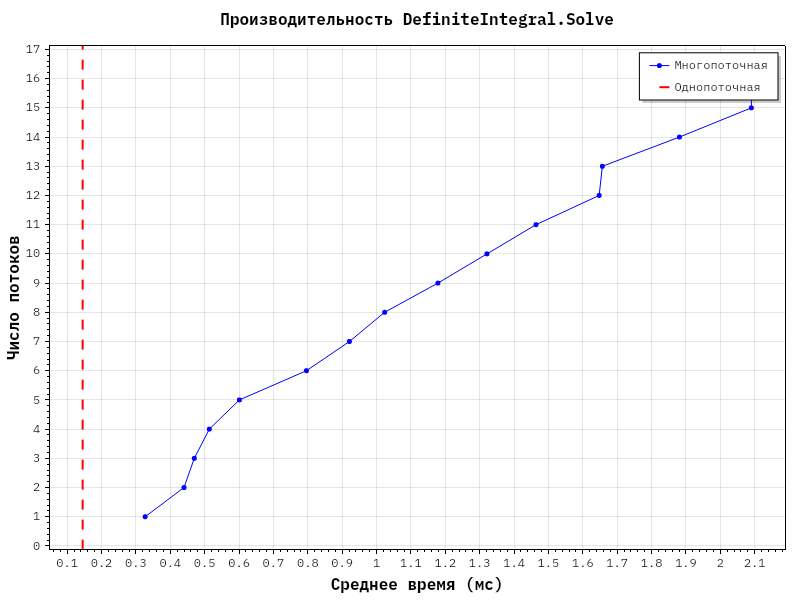
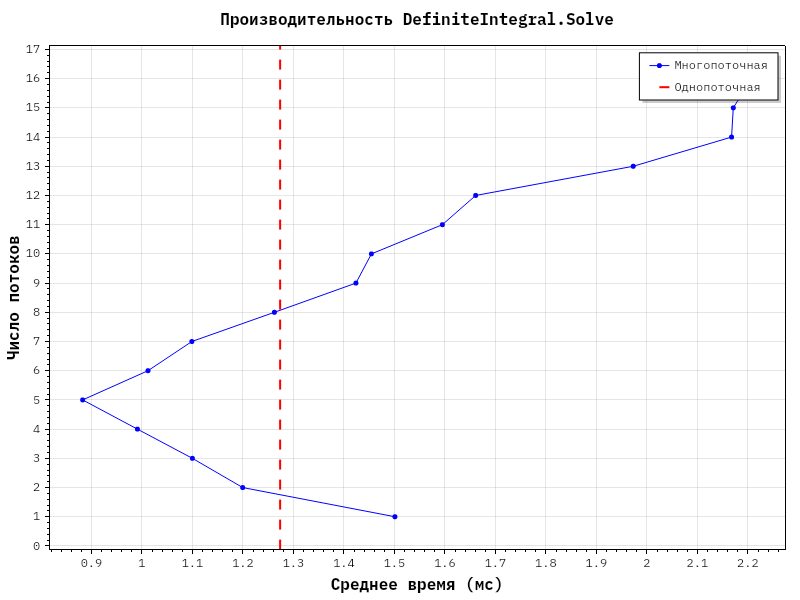
New performance result

diff --git a/PerformanceAnalyzer/Program.cs b/PerformanceAnalyzer/Program.cs
@@ -1,12 +1,9 @@
-using System;
-using task14;
+using task14;
 using System.Diagnostics;
-using System.Linq;
 using ScottPlot;
 
 class Program
 {
-    // Вспомогательный метод для измерения времени выполнения
     static (double timeMs, double result) Measure(Action act, int warmup = 2, int runs = 5)
     {
         for (int i = 0; i < warmup; i++) act();
@@ -20,28 +17,29 @@ class Program
     {
         double a = -100, b = 100;
         Func<double, double> sin = Math.Sin;
-        double exact = 0.0; // интеграл sin(x) на [-100,100] равен 0
+        double exact = 0.0;
 
-        // 1. Определение оптимального шага (наибольший, дающий точность 1e-4)
-        double[] steps = { 1e-1, 1e-2, 1e-3, 1e-4, 1e-5, 1e-6 };
+	//1e-1 был намерен убран из списка. Так как определенный интеграл от синуса на симметричном отрезке
+	//всегда будет равен нулю => любой шаг будет давать отличную точность => программа выберет шаг 1e-1
+	//но он даст всего 2000 отрезков, что слишком мало для честного сравнения многопоточного решения и
+	//однопоточное из-за больших накладных расходов на создание потоков
+        double[] steps = { 1e-2, 1e-3, 1e-4, 1e-5, 1e-6 };
         Console.WriteLine("Шаг        | Время (мс)    | Погрешность");
         double stepOpt = steps[0];
         foreach (var step in steps)
         {
             var (time, res) = Measure(() => DefiniteIntegral.Solve(a, b, sin, step, 1), 2, 5);
-            Console.WriteLine($"{res:F19}"); // Вывод: 3.14
+            Console.WriteLine($"{res:F19}");
             double error = Math.Abs(res - exact);
             Console.WriteLine($"{step,6:E1}   | {time,12:F4}   | {error,12:E2}");
-            // Выбираем первый (самый крупный) шаг, обеспечивающий точность
             if (error <= 1e-4)
             {
                 stepOpt = step;
-                break; // прекращаем перебор, так как идём от крупного к мелкому
+                break;
             }
         }
         Console.WriteLine($"\nВыбран шаг: {stepOpt} (интервалов: {(b - a) / stepOpt:F0})");
 
-        // 2. Подбор оптимального числа потоков
         int maxThreads = Environment.ProcessorCount * 2;
         int[] threadCounts = Enumerable.Range(1, maxThreads).ToArray();
         double[] multiTimes = new double[maxThreads];
@@ -55,7 +53,6 @@ class Program
             Console.WriteLine($"{threads,7} | {time,11:F4}");
         }
 
-        // 3. Сравнение с однопоточной версией (без потоков)
         var (singleTime, _) = Measure(() => DefiniteIntegral.SolveInOneThread(a, b, sin, stepOpt), 5, 10);
         double minMultiTime = multiTimes.Min();
         int bestThreads = threadCounts[Array.IndexOf(multiTimes, minMultiTime)];
@@ -65,10 +62,8 @@ class Program
         Console.WriteLine($"Лучшая многопоточная: {minMultiTime:F4} мс ({bestThreads} потоков)");
         Console.WriteLine($"Ускорение: {gain:F2}%");
 
-        // 4. Построение графика (по заданию: OX – время, OY – число потоков)
         var plt = new Plot();
 
-        // Точки многопоточных замеров: X = время, Y = число потоков
         var xs = multiTimes.Select(t => (double)t).ToArray();
         var ys = threadCounts.Select(t => (double)t).ToArray();
         var scatter = plt.Add.Scatter(xs, ys);
@@ -76,7 +71,6 @@ class Program
         scatter.MarkerSize = 5;
         scatter.LegendText = "Многопоточная";
 
-        // Вертикальная линия для однопоточного времени
         var vLine = plt.Add.VerticalLine(singleTime);
         vLine.Color = Colors.Red;
         vLine.LinePattern = LinePattern.Dashed;
@@ -92,9 +86,8 @@ class Program
         plt.SavePng(plotPath, 800, 600);
         Console.WriteLine($"\nГрафик сохранён в {plotPath}");
 
-        // 5. Формирование отчёта
         string report = $@"
-           Оптимальный шаг (наибольший, дающий точность 1e-4): {stepOpt}
+           Оптимальный шаг: {stepOpt}
            Число интервалов: {(b - a) / stepOpt:F0}
            Однопоточное время (без потоков): {singleTime:F4} мс
            Лучшее многопоточное время: {minMultiTime:F4} мс (потоков: {bestThreads})
